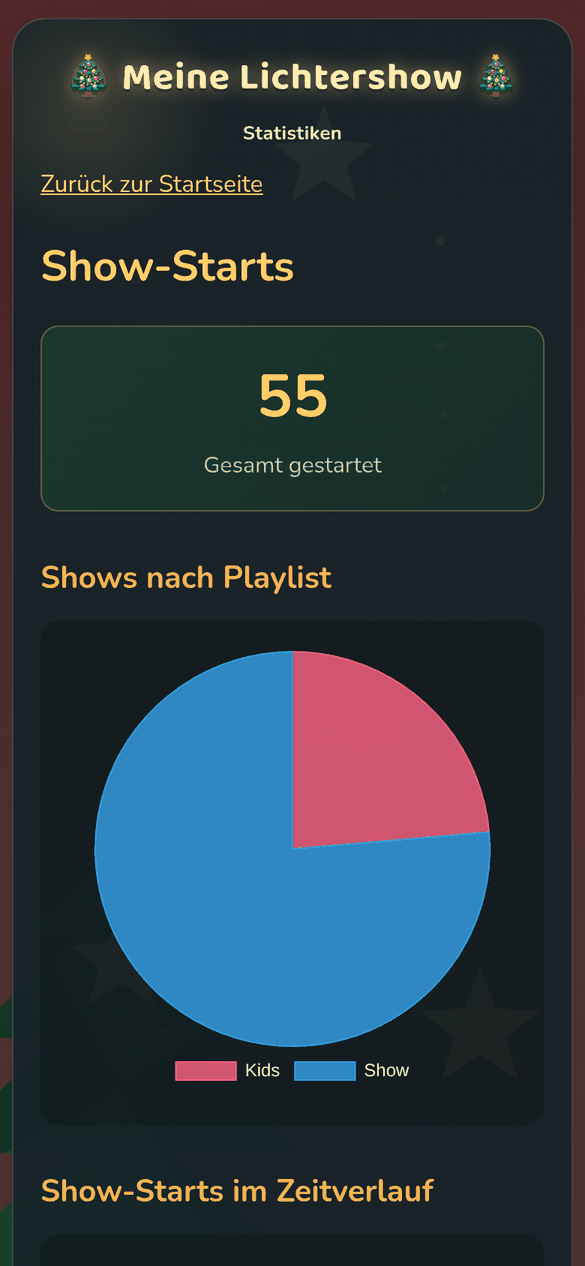
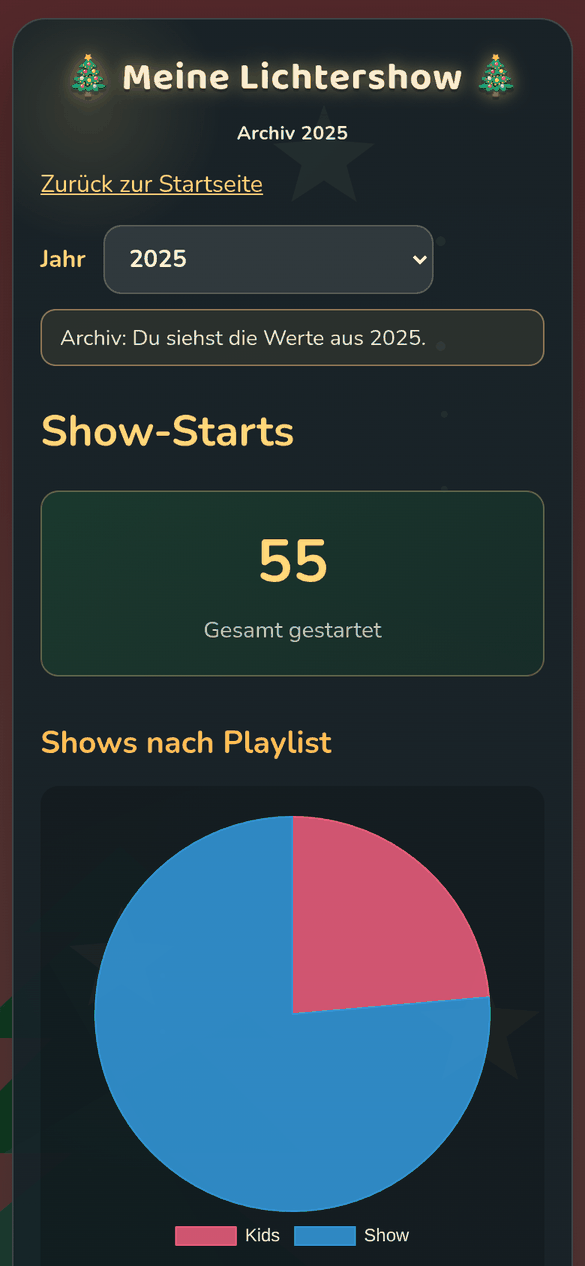
feat: statistics per calendar year with an archive of past years
- /api/statistics filters by calendar year (?year=YYYY, default: current
  year) and returns the list of years with data
- The statistics page shows the current year by default and offers past
  years in a selector under "Archiv"; archive views are marked, empty
  years say so
- New statistics screenshot, docs and changelog (v1.3.0)

diff --git a/static/js/statistics.js b/static/js/statistics.js
@@ -81,11 +81,58 @@ function appendCells(row, values) {
   });
 }
 
+// Year selection: no parameter = current year; past years form the archive.
+const yearSelect = document.getElementById('stats-year-select');
+const requestedYear = new URLSearchParams(location.search).get('year');
+
+function renderYearSelect(data) {
+  yearSelect.replaceChildren();
+  const current = document.createElement('option');
+  current.value = String(data.currentYear);
+  current.textContent = `${data.currentYear} (aktuell)`;
+  yearSelect.appendChild(current);
+  const past = (data.years || []).filter((y) => y !== data.currentYear);
+  if (past.length) {
+    const group = document.createElement('optgroup');
+    group.label = 'Archiv';
+    past.forEach((y) => {
+      const option = document.createElement('option');
+      option.value = String(y);
+      option.textContent = String(y);
+      group.appendChild(option);
+    });
+    yearSelect.appendChild(group);
+  }
+  yearSelect.value = String(data.year);
+
+  const isArchive = data.year !== data.currentYear;
+  document.getElementById('stats-subtitle').textContent = isArchive ? `Archiv ${data.year}` : `Statistiken ${data.year}`;
+  const archiveNote = document.getElementById('stats-archive-note');
+  archiveNote.textContent = `Archiv: Du siehst die Werte aus ${data.year}.`;
+  archiveNote.classList.toggle('hidden', !isArchive);
+
+  const empty = (data.show_starts || {}).total === 0 && (data.song_requests || {}).total === 0;
+  const emptyNote = document.getElementById('stats-empty');
+  emptyNote.textContent = isArchive
+    ? `Für ${data.year} gibt es keine Einträge.`
+    : `Für ${data.year} gibt es noch keine Einträge. Vergangene Jahre findest du im Archiv.`;
+  emptyNote.classList.toggle('hidden', !empty);
+}
+
+yearSelect.addEventListener('change', () => {
+  const url = new URL(location.href);
+  if (yearSelect.value === yearSelect.options[0].value) url.searchParams.delete('year');
+  else url.searchParams.set('year', yearSelect.value);
+  location.href = url.toString();
+});
+
 async function loadStatistics() {
   try {
-    const response = await fetch('/api/statistics');
+    const query = requestedYear && /^\d{4}$/.test(requestedYear) ? `?year=${requestedYear}` : '';
+    const response = await fetch(`/api/statistics${query}`);
     if (!response.ok) throw new Error(`HTTP ${response.status}`);
     const data = await response.json();
+    renderYearSelect(data);
 
     // Show Statistics
     const showStarts = data.show_starts || {};

diff --git a/styles.css b/styles.css
@@ -1193,3 +1193,37 @@ button.action:focus-visible,
 .access-dialog .note:empty {
   display: none;
 }
+
+/* Statistik: Jahresauswahl und Archiv */
+.stats-year {
+  display: flex;
+  align-items: center;
+  gap: 12px;
+  margin: 16px 0 8px;
+  font-weight: 700;
+  color: var(--gold);
+}
+
+.stats-year-select {
+  flex: 1;
+  max-width: 220px;
+  padding: 10px 12px;
+  border-radius: 12px;
+  border: 1px solid rgba(255, 255, 255, 0.2);
+  background: rgba(255, 255, 255, 0.1);
+  color: #fff;
+  font: inherit;
+  font-weight: 700;
+}
+
+.stats-year-select option,
+.stats-year-select optgroup {
+  color: #111;
+}
+
+.stats-archive-note {
+  padding: 8px 12px;
+  border-radius: 10px;
+  border: 1px solid rgba(255, 214, 120, 0.45);
+  background: rgba(255, 214, 120, 0.08);
+}

diff --git a/statistics.html b/statistics.html
@@ -27,11 +27,18 @@
   <div class="card">
     <header>
       <h1 id="headline"></h1>
-      <p class="subtitle">Statistiken</p>
+      <p class="subtitle" id="stats-subtitle">Statistiken</p>
     </header>
 
     <div class="statistics-content">
       <button class="link-like" id="back-home">Zurück zur Startseite</button>
+
+      <div class="stats-year">
+        <label for="stats-year-select">Jahr</label>
+        <select id="stats-year-select" class="stats-year-select"></select>
+      </div>
+      <p class="note stats-archive-note hidden" id="stats-archive-note"></p>
+      <p class="note hidden" id="stats-empty"></p>
 
       <!-- Show Statistics Section -->
       <section class="stats-section">

diff --git a/app.py b/app.py
@@ -1754,14 +1754,35 @@ def health():
     return {"status": "ok"}
 
 
+def _entry_year(entry: Any) -> Optional[int]:
+    """Calendar year of a statistics entry (from its ISO timestamp)."""
+    if not isinstance(entry, dict):
+        return None
+    stamp = str(entry.get("timestamp") or "")
+    return int(stamp[:4]) if len(stamp) >= 4 and stamp[:4].isdigit() else None
+
+
 @app.route("/api/statistics")
 def api_statistics():
-    """Return aggregated statistics for user interactions."""
+    """Return aggregated statistics for one calendar year.
+
+    ``?year=YYYY`` selects the year; without it the current year is used.
+    ``years`` lists every year with data (plus the current one) for the archive.
+    """
     with statistics_lock:
         stats = load_statistics()
-    
+
+    current_year = local_now().year
+    try:
+        year = int(request.args.get("year", current_year))
+    except (TypeError, ValueError):
+        year = current_year
+
+    all_entries = list(stats.get("show_starts", [])) + list(stats.get("song_requests", []))
+    years = sorted({y for y in (_entry_year(e) for e in all_entries) if y} | {current_year, year}, reverse=True)
+
     # Process show starts
-    show_starts = stats.get("show_starts", [])
+    show_starts = [e for e in stats.get("show_starts", []) if _entry_year(e) == year]
     show_stats = {}
     show_timeline = []
     
@@ -1777,7 +1798,7 @@ def api_statistics():
         })
     
     # Process song requests
-    song_requests = stats.get("song_requests", [])
+    song_requests = [e for e in stats.get("song_requests", []) if _entry_year(e) == year]
     song_stats = {}
     song_timeline = []
     
@@ -1803,6 +1824,9 @@ def api_statistics():
     )[:5]
     
     return jsonify({
+        "year": year,
+        "currentYear": current_year,
+        "years": years,
         "show_starts": {
             "total": len(show_starts),
             "by_playlist": show_stats,

diff --git a/README.md b/README.md
@@ -48,7 +48,7 @@ Weitere Dokumente: [ARCHITECTURE.md](ARCHITECTURE.md) (Aufbau), [deploy/README.m
 - **Hintergrund-Effekt**: läuft automatisch, wenn nichts gespielt wird
 - **Zugangsschutz**: fester Code oder ein täglich wechselnder Code, den eine Pixel-Matrix am Haus anzeigt
 - **Faire Wünsche**: Obergrenzen pro Gerät und für die Warteschlange
-- **Statistiken**: Show-Starts und Liedwünsche mit Diagrammen
+- **Statistiken**: Show-Starts und Liedwünsche mit Diagrammen, nach Jahren getrennt; vergangene Jahre im Archiv
 - **Benachrichtigungen**: MQTT, ntfy, Home Assistant, Webhook
 - **Datenschutzfreundlich**: Schriften, Symbole und Bibliotheken werden selbst ausgeliefert, Besucher bauen keine Verbindung zu Google Fonts oder CDNs auf
 - **Docker Secrets**: jede Einstellung kann aus einer Datei gelesen werden
@@ -362,7 +362,7 @@ Die Oberfläche nutzt diese Endpunkte. Schreibende Aufrufe brauchen bei aktivem 
 | `POST` | `/api/show` | Show starten |
 | `GET` | `/api/requests/songs` | Wünschbare Lieder |
 | `POST` | `/api/requests` | Lied wünschen |
-| `GET` | `/api/statistics` | Statistik |
+| `GET` | `/api/statistics` | Statistik eines Jahres (`?year=JJJJ`, Standard: aktuelles Jahr) |
 | `GET` | `/health` | Lebenszeichen (`{"status": "ok"}`) |
 
 ### `GET /api/state`
@@ -516,7 +516,7 @@ Der Code erscheint nur während der Showzeiten und nur, wenn nichts läuft. Der 
 `scheduledShowsEnabled` auf `false` setzen.
 
 **Wo liegen die Statistiken?**
-In `data/statistics.json`. Mit eingebundenem `data`-Verzeichnis bleiben sie über Neustarts erhalten. Die Seite dazu ist `/statistics`.
+In `data/statistics.json`. Mit eingebundenem `data`-Verzeichnis bleiben sie über Neustarts erhalten. Die Seite `/statistics` zeigt das aktuelle Kalenderjahr; frühere Jahre sind über die Jahresauswahl als Archiv erreichbar (`/statistics?year=2025`).
 
 **Der Container meldet „port already in use“.**
 In `docker-compose.yml` den linken Port ändern, z. B. `"8081:8000"`.

diff --git a/CHANGELOG.md b/CHANGELOG.md
@@ -11,6 +11,13 @@ und dieses Projekt hält sich an [Semantic Versioning](https://semver.org/lang/d
 
 ---
 
+## [1.3.0] - 2026-11-10
+
+### Changed
+- Die Statistik zeigt nur noch das aktuelle Kalenderjahr. Frühere Jahre sind über eine Jahresauswahl als Archiv erreichbar (`/statistics?year=JJJJ`, API `GET /api/statistics?year=JJJJ` mit Liste der vorhandenen Jahre)
+
+---
+
 ## [1.2.0] - 2026-11-10
 
 ### Changed
@@ -362,7 +369,8 @@ docker compose up -d
 
 ---
 
-[Unreleased]: https://github.com/TimUx/fpp-web-control/compare/v1.2.0...HEAD
+[Unreleased]: https://github.com/TimUx/fpp-web-control/compare/v1.3.0...HEAD
+[1.3.0]: https://github.com/TimUx/fpp-web-control/compare/v1.2.0...v1.3.0
 [1.2.0]: https://github.com/TimUx/fpp-web-control/compare/v1.1.0...v1.2.0
 [1.1.0]: https://github.com/TimUx/fpp-web-control/compare/v1.0.4...v1.1.0
 [1.0.0]: https://github.com/TimUx/fpp-web-control/releases/tag/1.0.0
